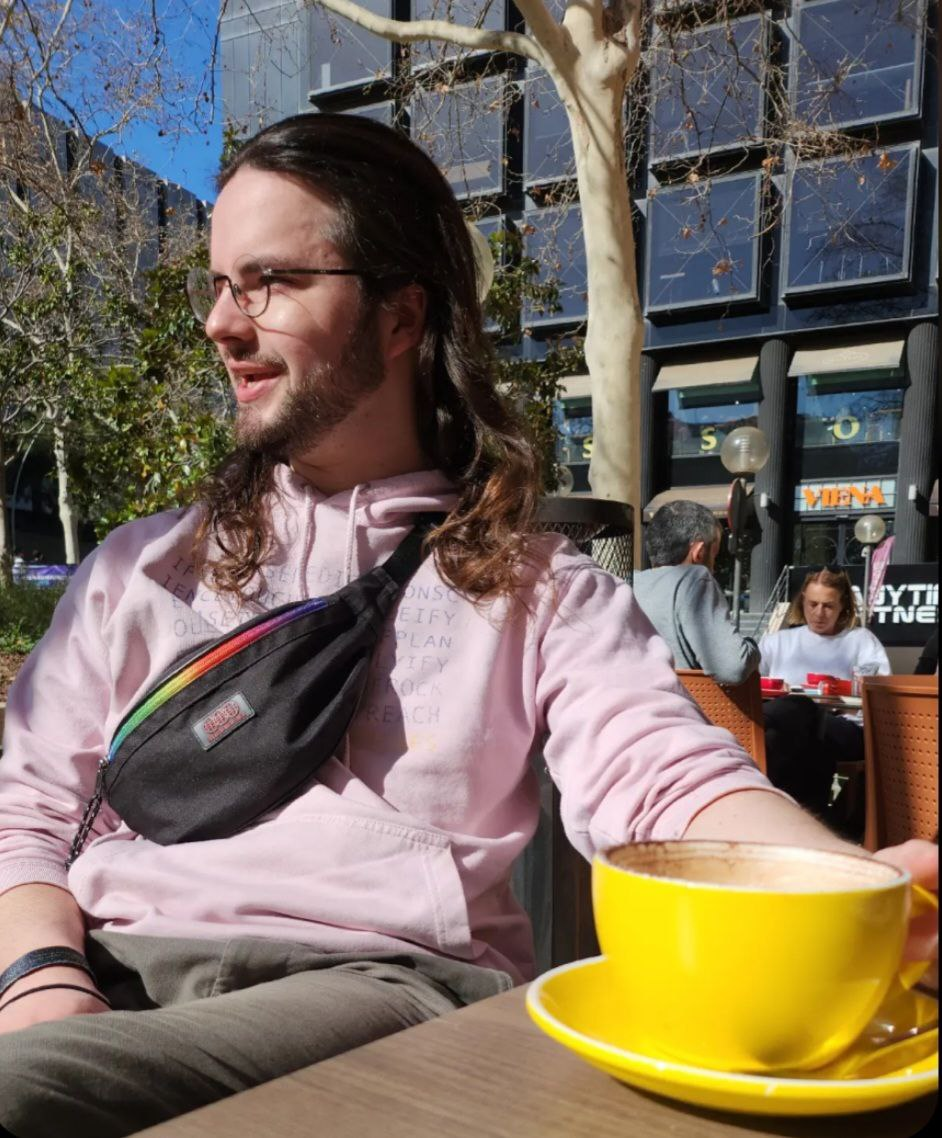
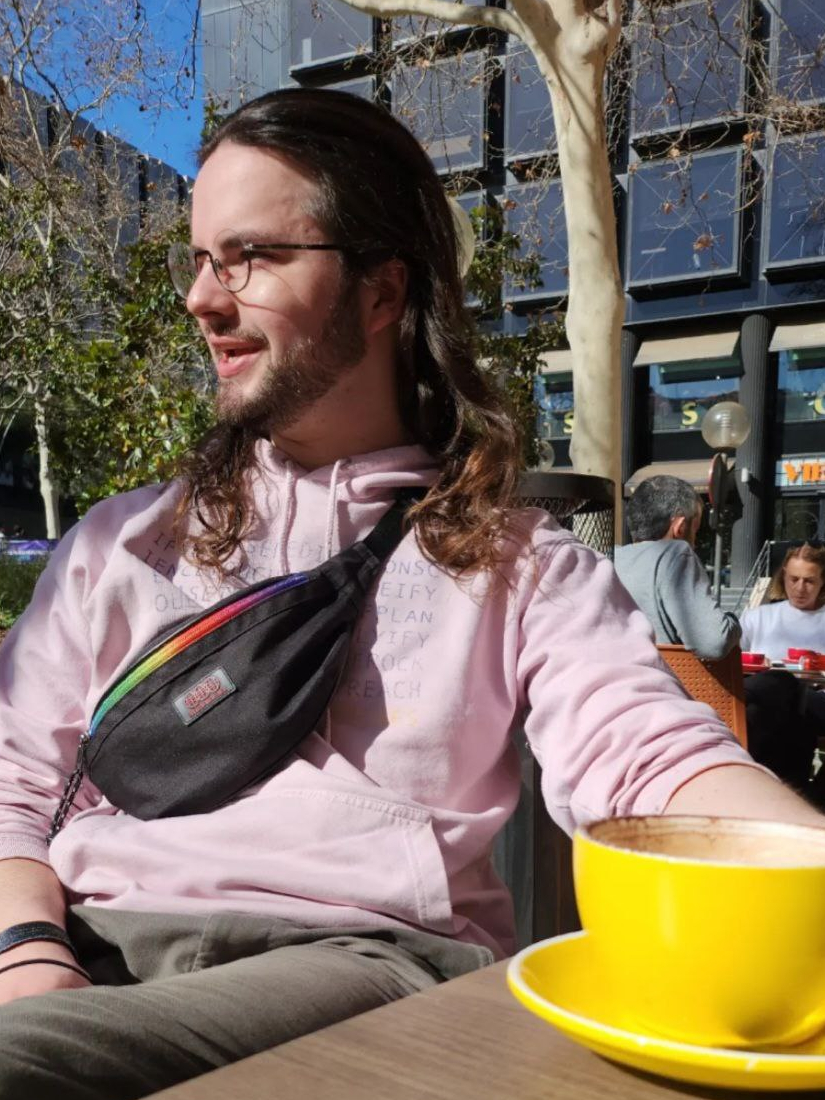
fix team images

diff --git a/about.html b/about.html
@@ -19,9 +19,9 @@ On Friday afternoons, junior researchers in physics and related sciences in Stoc
         <div class="card mb-3 bg-light">
           <div class="row g-0">
             <div class="col-lg-3 rounded-first-lg">
-                <div class="row align-content-center justify-content-center w-100 h-100">
-                    <div class="col">
-                        <img src="{{ member.img | relative_url }}" class="img-fluid rounded-2 m-2" alt="Foto of Gui" style="max-height: 30vh;">
+                <div class="row justify-content-center justify-content-cent w-100 h-100">
+                    <div class="col-auto align-items-center row pe-0">
+                        <img src="{{ member.img | relative_url }}" class="m-2 p-0 img-fluid rounded-2" alt="Foto of {{ member.name }}" style="max-height: 30vh;">
                     </div>
                 </div>
             </div>
